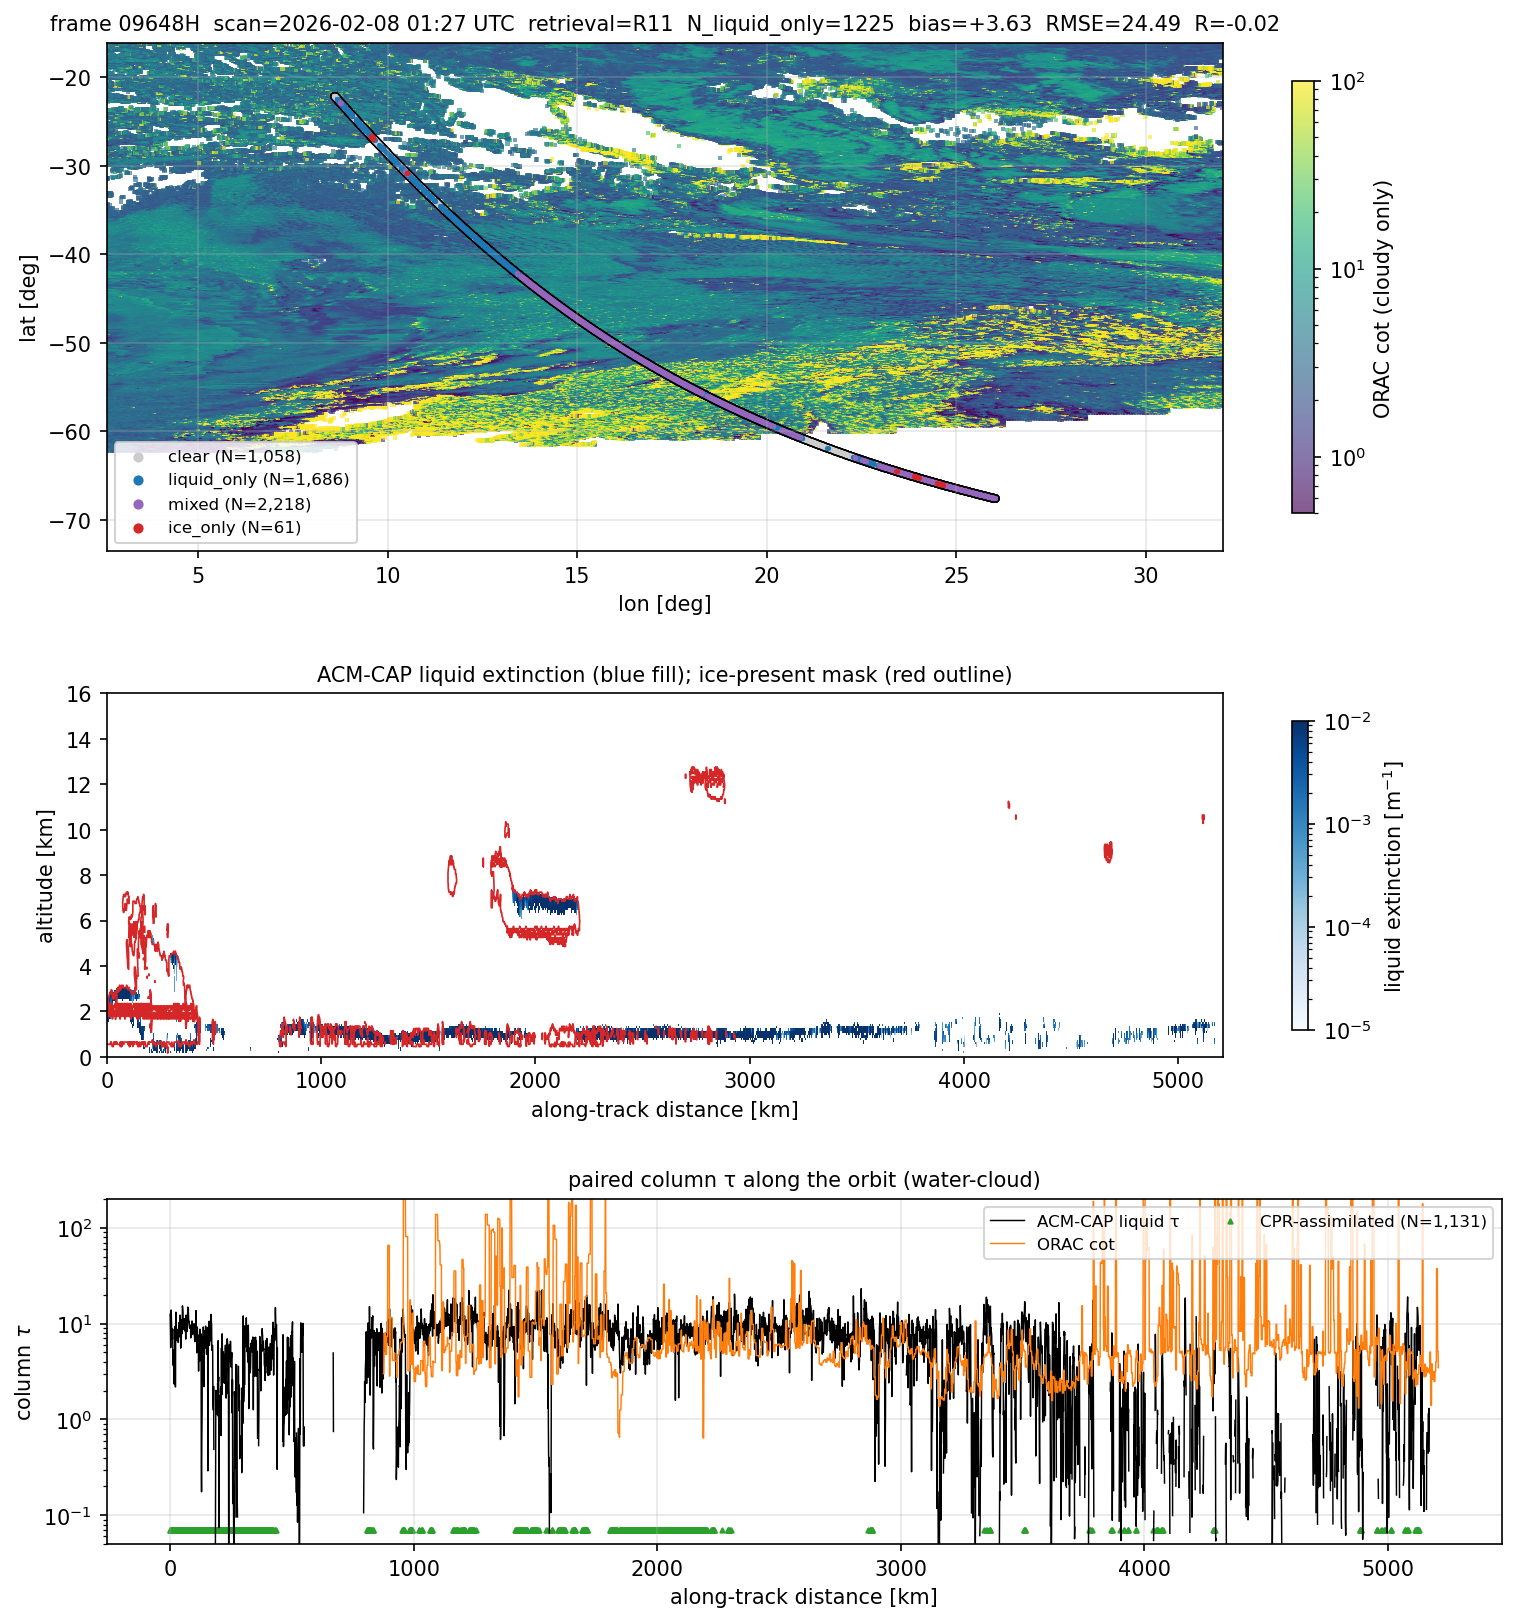
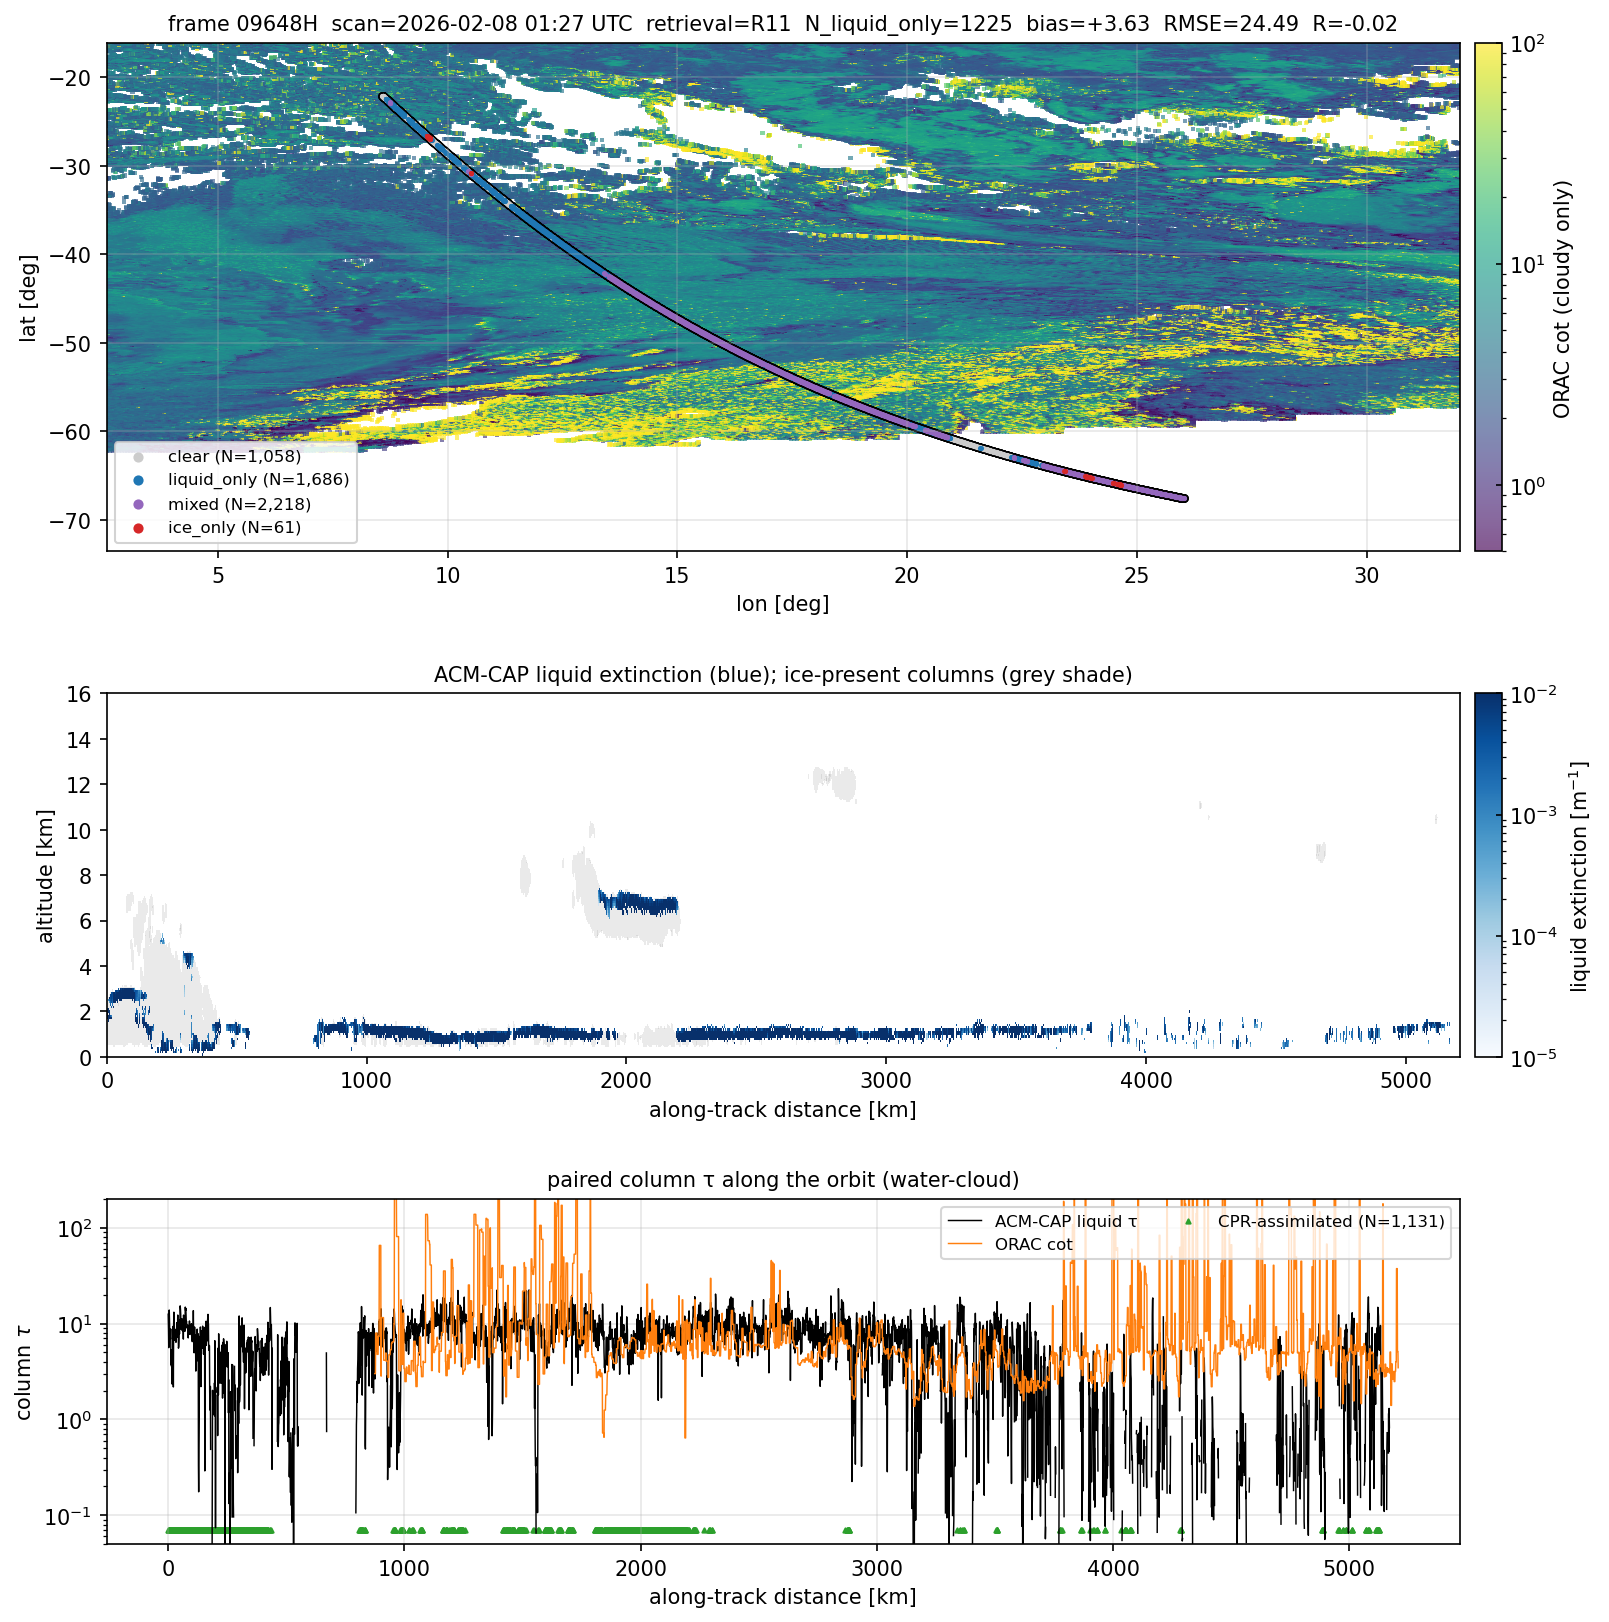
validation(cot_water): track-panel style — uniform widths, subtle ice mask
Two visualisation fixes for track_panel_synergy:

 1. Use mpl_toolkits.axes_grid1.make_axes_locatable for all three panel
    colourbars (and a phantom spacer on the line panel) so panel widths
    are exactly aligned. Previously fig.colorbar(ax=...) stole different
    amounts of width from the axes, leaving the line panel visibly
    wider than the colourbarred map and curtain.

 2. Replace the red ice-present contour overlay (visually noisy) with a
    translucent grey contourf fill. Reads as background context — "this
    column has ice somewhere" — without competing with the blue liquid
    extinction signal.

Re-rendered all 4 case-study frames (09574A, 09648H, 09865H, 09885A)
with the new style.

diff --git a/validation/track_figures.py b/validation/track_figures.py
@@ -15,6 +15,7 @@ import matplotlib.pyplot as plt
 import numpy as np
 import pandas as pd
 from matplotlib.colors import LogNorm
+from mpl_toolkits.axes_grid1 import make_axes_locatable
 
 from orac.io import open_slot
 from orac.metadata import discover_slots
@@ -313,12 +314,28 @@ def track_panel_synergy(
     fig = plt.figure(figsize=(12, 13))
     gs = fig.add_gridspec(3, 1, height_ratios=(1.4, 1.0, 0.95), hspace=0.35)
 
+    # Common helper: attach a same-width colourbar to a panel via
+    # make_axes_locatable, so panel widths stay aligned across the column.
+    def _add_cbar(ax, mappable, label: str):
+        div = make_axes_locatable(ax)
+        cax = div.append_axes("right", size="2%", pad=0.10)
+        cb = fig.colorbar(mappable, cax=cax)
+        cb.set_label(label)
+        cb.ax.tick_params(direction="in", length=3)
+        return cb
+
+    def _add_cbar_spacer(ax):
+        """Reserve the same right-margin width on a non-colourbar panel."""
+        div = make_axes_locatable(ax)
+        cax = div.append_axes("right", size="2%", pad=0.10)
+        cax.axis("off")
+
     # ── Row 1: SEVIRI cot map + ATLID nadir track coloured by phase ─────
     ax_map = fig.add_subplot(gs[0])
     pcm = ax_map.scatter(sl_lon[cloudy], sl_lat[cloudy], c=sl_cot[cloudy],
                          cmap=COT_CMAP, norm=COT_NORM, s=4, marker="s",
                          linewidths=0, alpha=0.65)
-    fig.colorbar(pcm, ax=ax_map, shrink=0.85, label="ORAC cot (cloudy only)")
+    _add_cbar(ax_map, pcm, "ORAC cot (cloudy only)")
     # Black halo for visibility, then phase-coloured dots on top.
     ax_map.scatter(lon, lat, c="black", s=18, linewidths=0)
     for cls, col in _PHASE_COLORS.items():
@@ -376,21 +393,23 @@ def track_panel_synergy(
                 if len(vals_iwc):
                     grid_ice[j, i] = vals_iwc.mean()
 
-    pcm2 = ax_curt.pcolormesh(along, ALT_GRID[:-1], grid_liq, cmap="Blues",
-                              norm=LIQ_EXT_NORM, shading="auto", rasterized=True)
-    fig.colorbar(pcm2, ax=ax_curt, shrink=0.85,
-                 label=r"liquid extinction [m$^{-1}$]")
-    # IWC contour overlay — outline of ice regions in red.
+    # Background ice mask — translucent grey fill where ice is present at
+    # any altitude. Subtle so it doesn't compete with the liquid extinction
+    # signal but still tells you "this column has ice".
     has_ice = np.isfinite(grid_ice) & (grid_ice > 1e-7)
     if has_ice.any():
-        ax_curt.contour(along, ALT_GRID[:-1], has_ice.astype(int),
-                        levels=[0.5], colors=["#d62728"], linewidths=0.8,
-                        linestyles="-")
+        ax_curt.contourf(along, ALT_GRID[:-1], has_ice.astype(float),
+                         levels=[0.5, 1.5], colors=["0.55"],
+                         alpha=0.18, zorder=1)
+    pcm2 = ax_curt.pcolormesh(along, ALT_GRID[:-1], grid_liq, cmap="Blues",
+                              norm=LIQ_EXT_NORM, shading="auto",
+                              rasterized=True, zorder=2)
+    _add_cbar(ax_curt, pcm2, r"liquid extinction [m$^{-1}$]")
     ax_curt.set_ylim(ATLID_VERTICAL_KM)
     ax_curt.set_xlabel("along-track distance [km]")
     ax_curt.set_ylabel("altitude [km]")
     ax_curt.set_title(
-        "ACM-CAP liquid extinction (blue fill); ice-present mask (red outline)",
+        "ACM-CAP liquid extinction (blue); ice-present columns (grey shade)",
         fontsize=10)
 
     # ── Row 3: along-track ACM-CAP τ vs ORAC cot ────────────────────────
@@ -417,6 +436,7 @@ def track_panel_synergy(
     ax_cmp.legend(loc="upper right", fontsize=8, ncol=2)
     ax_cmp.set_title("paired column τ along the orbit (water-cloud)", fontsize=10)
     ax_cmp.grid(alpha=0.3)
+    _add_cbar_spacer(ax_cmp)  # keep the same right-margin as panels 1 & 2
 
     if out is not None:
         Path(out).parent.mkdir(parents=True, exist_ok=True)
